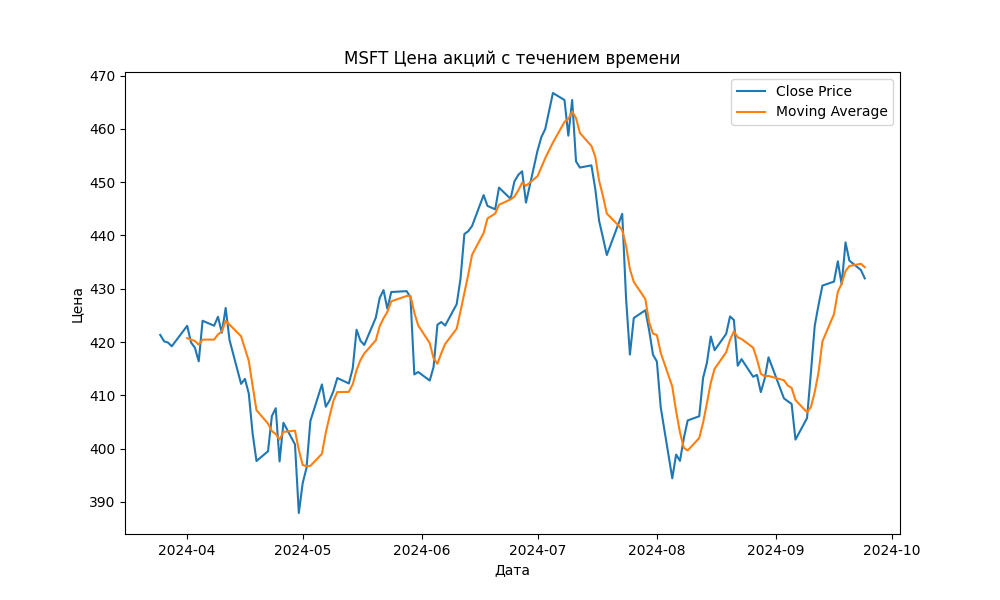
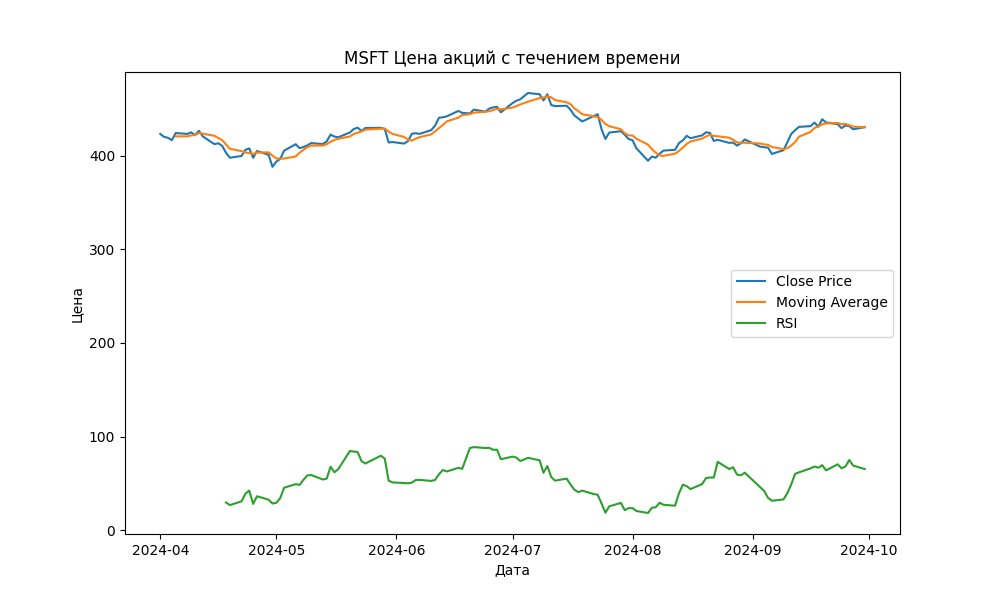
Задача4

diff --git a/data_download.py b/data_download.py
@@ -35,23 +35,14 @@ def export_data_to_csv(data, filename):
 
 
 def add_technical_indicators(data):
-    # Рассчитываем RSI
+    '''Функция добавляет дополнительный технический индикатор RSI'''
+
     delta = data['Close'].diff()
     gain = (delta.where(delta > 0, 0)).rolling(window=14).mean()
     loss = (-delta.where(delta < 0, 0)).rolling(window=14).mean()
 
     rs = gain / loss
     rsi = 100 - (100 / (1 + rs))
+    data['RSI'] = rsi
+    return data
 
-    # Создаем DataFrame с индикаторами
-    indicators = pd.DataFrame({
-        'RSI': rsi})
-
-    # Объединяем исходные данные с индикаторами
-    combined_data = pd.concat([data, indicators], axis=1)
-    return combined_data
-
-def download_and_process_data(ticker, period):
-    data = fetch_stock_data(ticker, period)
-    processed_data = add_technical_indicators(data)
-    return data['Close'], processed_data

diff --git a/main.py b/main.py
@@ -10,15 +10,16 @@ def main():
     ticker = input("Введите тикер акции (например, «AAPL» для Apple Inc):»")
     period = input("Введите период для данных (например, '1mo' для одного месяца): ")
     filename = 'DataF.csv'
-    indicators = dd.download_and_process_data(ticker, period)
+
     # Fetch stock data
     stock_data = dd.fetch_stock_data(ticker, period)
 
     # Add moving average to the data
     stock_data = dd.add_moving_average(stock_data)
 
-    # Plot the data
-    dplt.create_and_save_plot(stock_data, ticker, period, indicators)
+    dd.add_technical_indicators(stock_data)
+
+    dplt.create_and_save_plot(stock_data, ticker, period)
 
     dd.calculate_and_display_average_price(stock_data)
 
